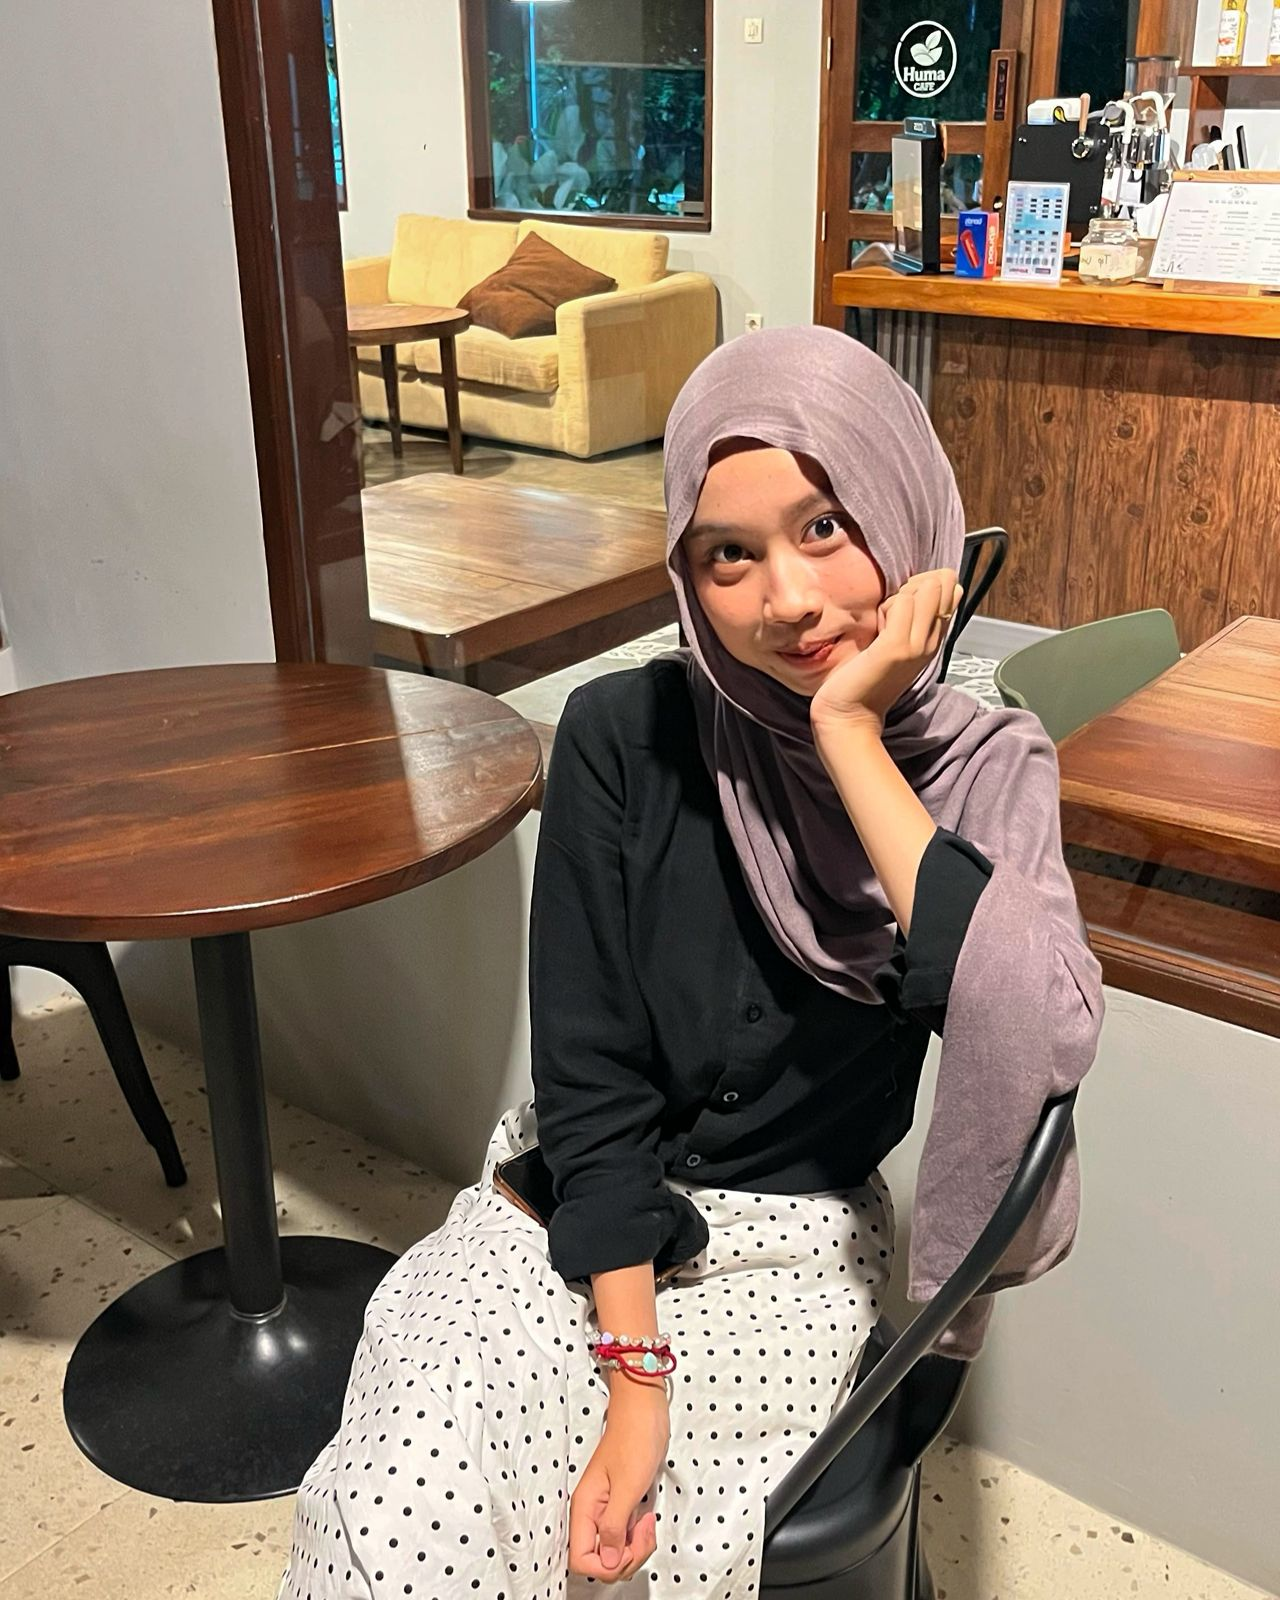
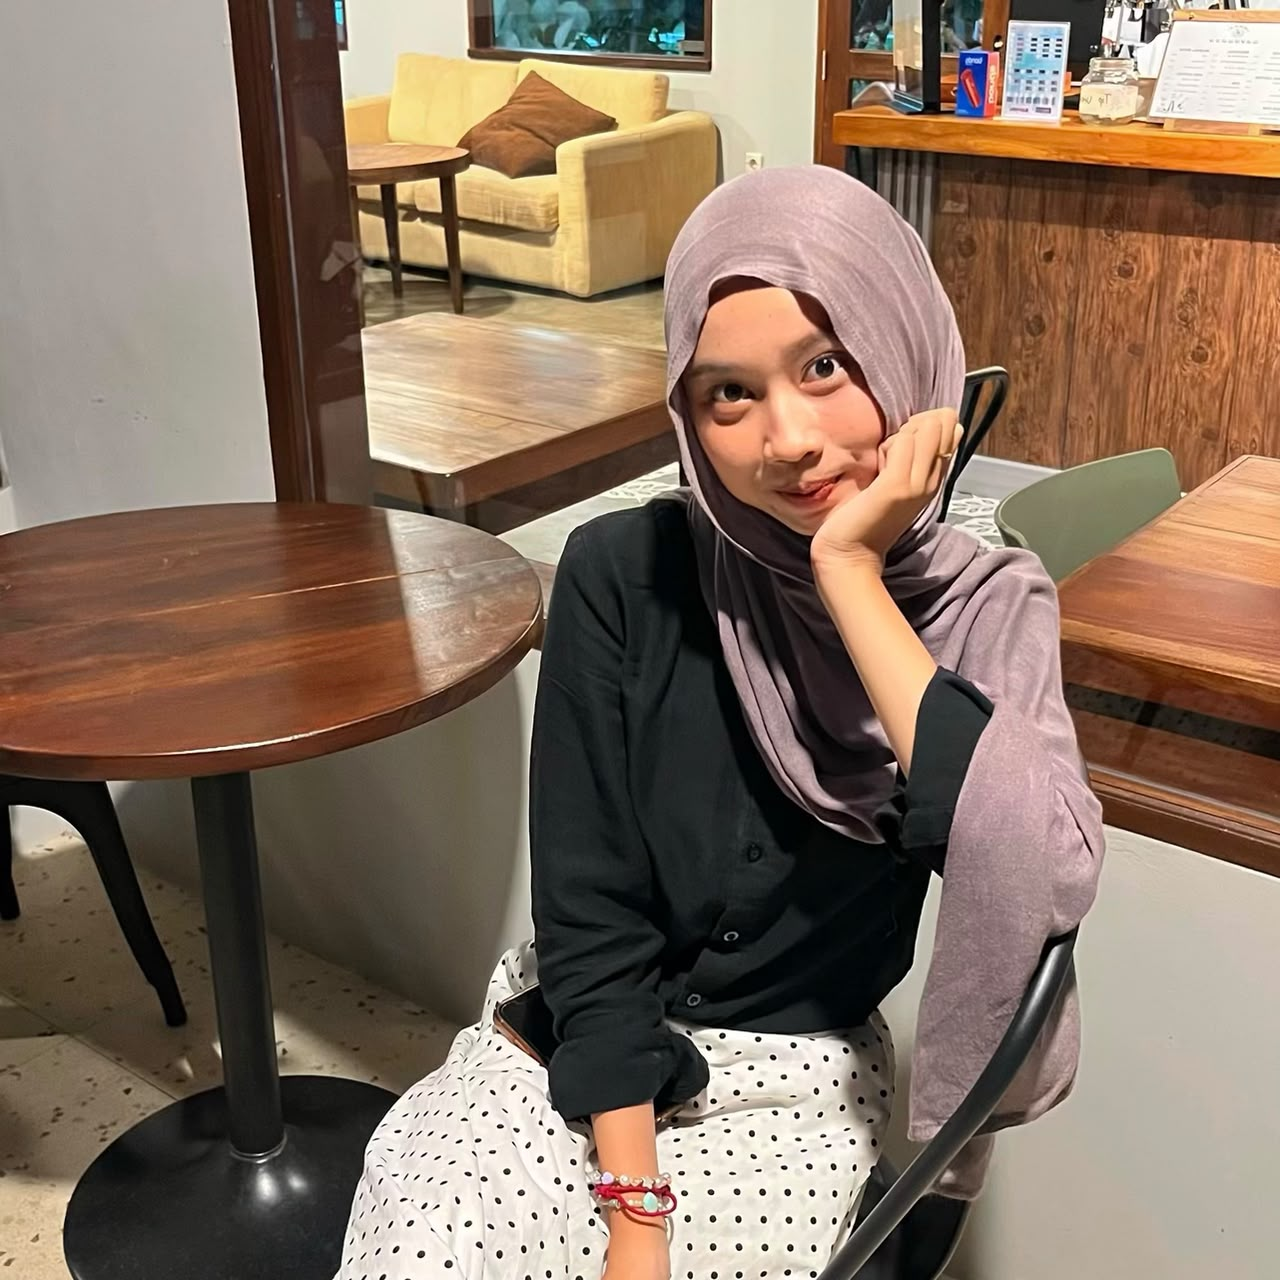
Menambahkan file baru

diff --git a/style.css b/style.css
@@ -1,0 +1,225 @@
+
+*{ margin: 0;
+   padding: 0;
+}
+
+h1{
+    display: flex;
+    align-items: center;
+    justify-content: center;
+    gap: 15Px;
+
+    margin-top: 15px;
+    margin-bottom: 5px;
+
+    font-size: 34px;
+
+    background: linear-gradient(
+        90deg,
+        #7B5265,
+        #C45A87,
+        #7B5265
+    );
+
+    -webkit-background-clip: text;
+    -webkit-text-fill-color: transparent;
+}
+
+
+P{
+    text-align: center;
+    line-height: 1.6;
+    margin-bottom: 10px; 
+    color: #4F454B;
+    font-size: 18px;
+}
+
+nav{
+    background-color: #5A5558;
+    color: FFEAF3;
+
+    display: flex;
+    align-items: center;
+    justify-content: center;
+
+    width: 60%;
+    margin:0 auto;
+
+    padding: 10px 6px;
+
+    gap: 5px;
+    border-radius: 20px;
+    font-size: 16px;
+
+    box-shadow: 0 2px 4px rgba(0, 0, 0, 0.1);
+}
+
+nav a{
+    text-decoration: none;
+    color: #f5a8c7;
+}
+
+.link-navbar{
+    height: 50px;
+}
+
+
+.link-navbar a{
+    color: #f5a8c7;
+    font-weight: bold;
+}
+
+h2 {
+    display: flex;
+    align-items: center;
+    justify-content: center;
+
+    gap: 15PX;
+    
+    margin-top: 10px;
+    margin-bottom: 12px;
+
+    font-size: 34px;
+
+    color: #8E4565;
+}
+
+
+header img{
+    height: 400px;
+    margin: 30px;
+}
+
+img{
+    width: 200px;
+
+    border-radius:50% ;
+    object-fit: cover;
+
+    display: block;
+    margin: auto;
+
+    border: 6px solid #FFF5F8;
+}
+
+
+h3 {
+    display: flex;
+    align-items: center;
+    justify-content: center;
+    color: #9C426C;
+}
+
+ul {
+    display: flex;
+    align-items: center;
+    justify-content: center;
+    gap: 12px;
+    list-style: none;
+    padding: 0;
+    margin: 20px 0;
+}
+
+li{
+    padding: 15px;
+    width: 100px;
+    text-align: center;
+    border-radius: 50px;
+    background-color:#5A5558;
+    color: #f5a8c7;
+}
+
+
+
+/* =========================
+   ANIMATION
+========================= */
+
+
+h1 {
+    animation: judulMasuk 1.5s ease;
+}
+
+@keyframes judulMasuk {
+    0% {
+        opacity: 0;
+        transform: translateY(-30px);
+    }
+
+    100% {
+        opacity: 1;
+        transform: translateY(0);
+    }
+}
+
+
+nav a {
+    display: inline-block;
+    transition: all 0.3s ease;
+}
+
+nav a:hover {
+    color: #ffffff;
+    transform: translateY(-4px);
+    text-shadow: 0 0 8px #f5a9c7;
+}
+
+h2 {
+    color: #9C4F70;
+    animation: floating 3s ease-in-out infinite;
+}
+
+@keyframes floating {
+    0% {
+        transform: translateY(0);
+    }
+
+    50% {
+        transform: translateY(-6px);
+    }
+
+    100% {
+        transform: translateY(0);
+    }
+}
+
+.foto-container {
+  display: flex;
+  justify-content: center;
+  align-items: center;
+  margin-bottom: 20px;
+}
+
+.salmaa {
+  width: 200px;
+  height: 200px;
+  border-radius: 50%;
+  object-fit: cover;
+  border: 4px solid #C86B91;
+  
+  animation: glow 2s infinite ease-in-out; 
+}
+
+@keyframes glow {
+  0% {
+    box-shadow: 0 0 5px rgba(4, 16, 54, 0.582);
+  }
+  50% {
+    box-shadow: 0 0 25px rgb(48, 68, 134), 0 0 10px rgba(11, 14, 48, 0.6);
+  }
+  100% {
+    box-shadow: 0 0 5px rgba(0, 12, 72, 0.893);
+  }
+}
+
+
+li {
+    transition: 0.3s ease;
+}
+
+li:hover {
+    transform: translateY(-5px);
+    background-color: #C45A87;
+}
+
+

diff --git a/index.html b/index.html
@@ -2,8 +2,11 @@
 <html lang="id">
   <head>
     <meta charset="UTF-8" />
-    <h1>Personal Website</h1>
+    <h1><span>🌸 𝓅𝑒𝓇𝓈𝑜𝓃𝒶𝓁 𝓌𝑒𝒷𝓈𝒾𝓉𝑒🌸</span></h1>
     <p>Selamat datang, semoga bisa mengenal saya lebih dalam</p>
+    <link rel="stylesheet" href="style.css">
+
+  <body style="background-color: #F8DDEB;">
   </head>
   <body>
     <nav>
@@ -18,25 +21,25 @@
       <a href="history.html">history</a>
     </nav>
     <hr />
-    <h2 id="Halo, Saya Salma Ashilah">Halo, Saya Salma Ashilah</h2>
-    <img src="Asset/salmaa.jpeg" alt="Foto profil mahasiswa" width="240" />
+    <h2 id="⋆ 𝒽𝒶𝓁𝓁𝑜, 𝒶𝓀𝓊 𝓈𝒶𝓁𝓂𝒶 ⋆">⋆ 𝒽𝒶𝓁𝓁𝑜, 𝒶𝓀𝓊 𝓈𝒶𝓁𝓂𝒶 ⋆</h2>
+    <img src="Asset/salmaa.jpeg" alt="Foto profil salmaa" class="salmaa"/>
     <p>
       saya adalah mahasiswa yang sedang belajar pengembangan web. <br />website
-      ini di buat sebagai latihan menggunakan HTML dasar tanpa CSS
+      ini di buat untuk belajar HTML dan CSS
     </p>
     <p>
-      Di website ini Anda dapat mengenal saya, melihat beberapa project, serta
-      menguubungi saya melalui halaman contact.
+      Di website ini anda dapat mengenal saya, melihat beberapa project, serta
+      mengubungi saya melalui halaman contact.
     </p>
     <h3 id="Yang sedang saya pelajatri">Yang sedang saya pelajari</h3>
     <ul>
       <li>HTML</li>
       <li>Algoritma Pemograman</li>
       <li>Basic Data</li>
-      <li>git dan GitHub</li>
+      <li>Github</li>
     </ul>
     <p>
-      silahkan kunjungi halaman about untuk mengetahui profil saya lebih lengkap
+      silahkan kunjungi halaman <a href="About.html">About</a> untuk mengetahui profil saya lebih lengkap
     </p>
     <hr />
     <p>&copy; 2026 Salma Ashilah. Dibuat menggunakan HTML.</p>

diff --git a/Project.html b/Project.html
@@ -7,21 +7,13 @@
   </head>
   <body>
     <nav>
-      <a href="index.html   "
-        >Home</a
-      >
+      <a href="./index.html">Home</a>
       |
-      <a
-        href="About.html"
-        >About</a
-      >
+      <a href="./About.html">About</a>
       |
-      <a href="Project.html"
-        >Project</a
-      >
+      <a href="./Project.html">Project</a>
       |
-       <a href="Contact.html"
-        >Contact</a
+      <a href="Contact.html">Contact</a>
       |
       <a href="history.html">history</a>
     </nav>

diff --git a/README.md b/README.md
@@ -80,6 +80,6 @@ Project ini dapat dikembangkan lebih lanjut dengan menambahkan:
 Mahasiswa Pendidikan Sistem dan Teknologi Informasi
 
 © 2026 Salma Ashilah
-=======
+=======       
 
 >>>>>>> 55095fe81a8df014cdc8324c8d3062c2fa73db83
